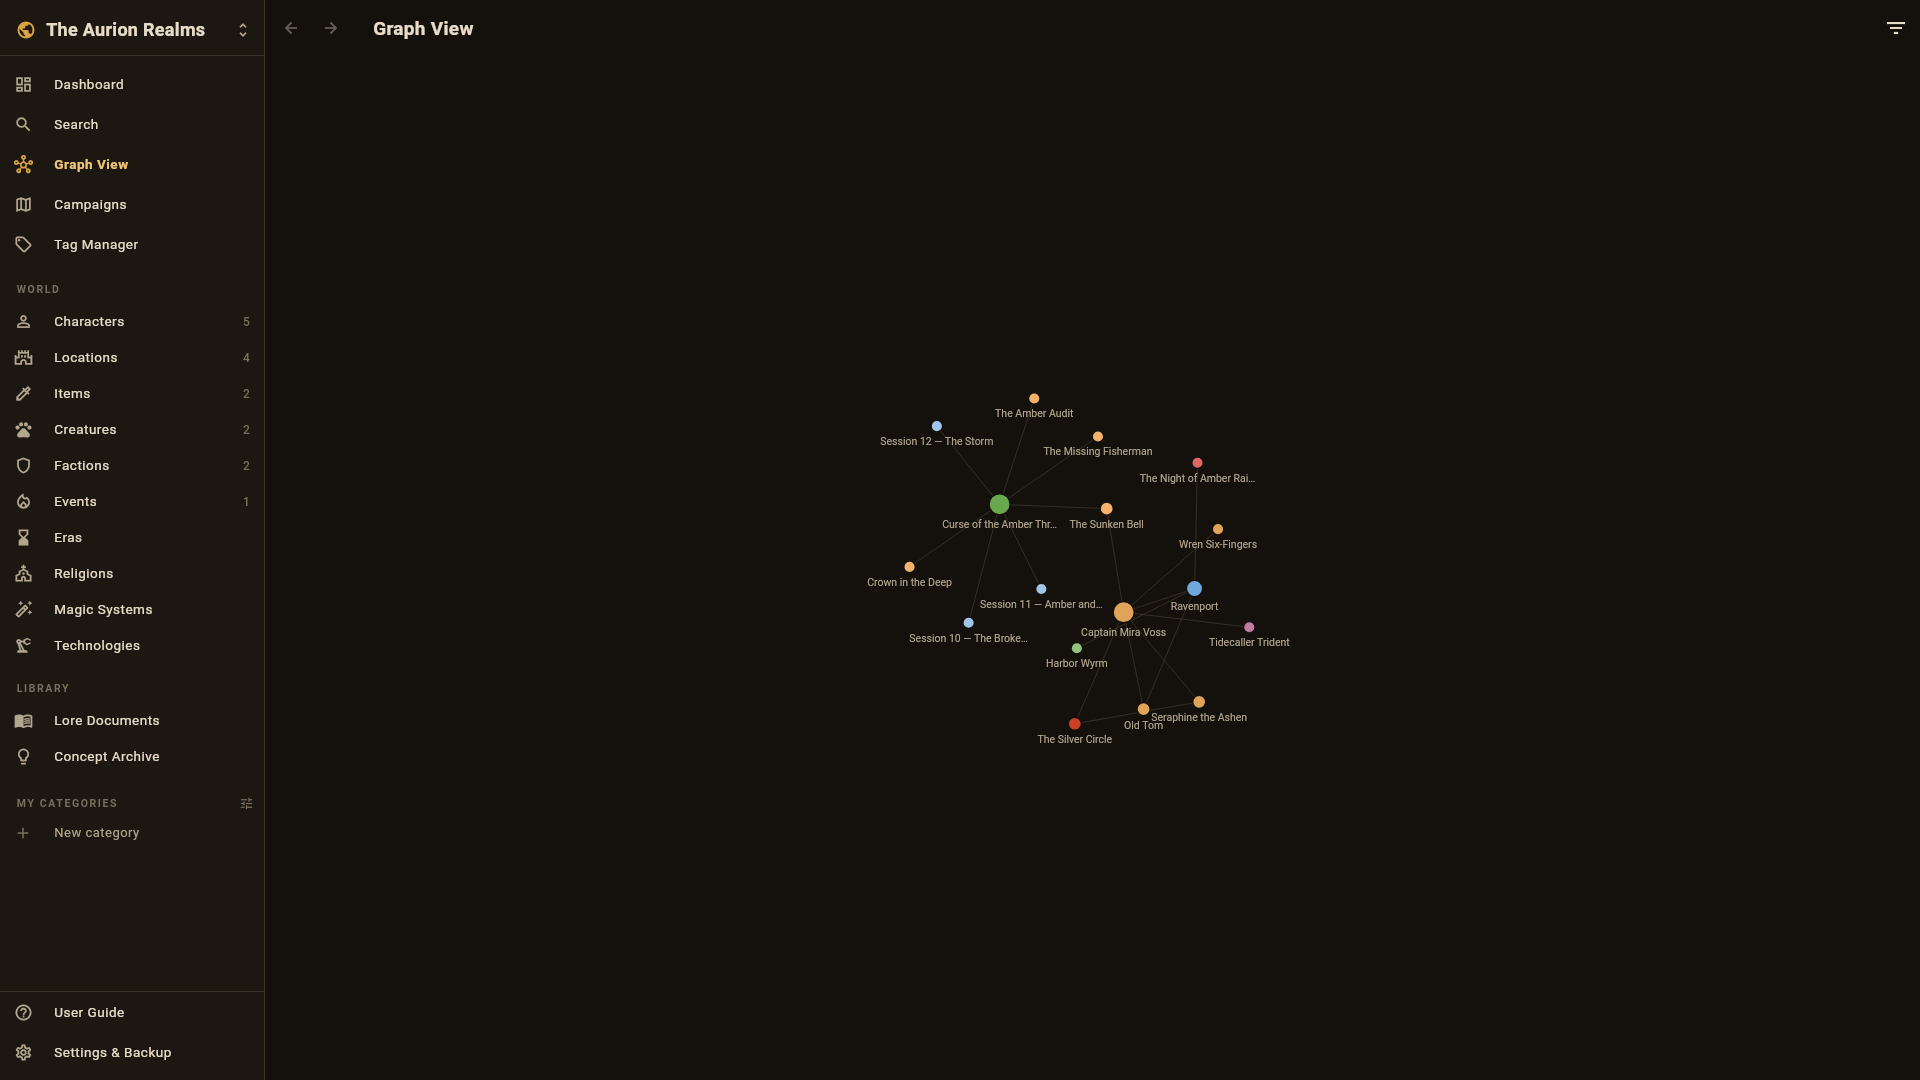
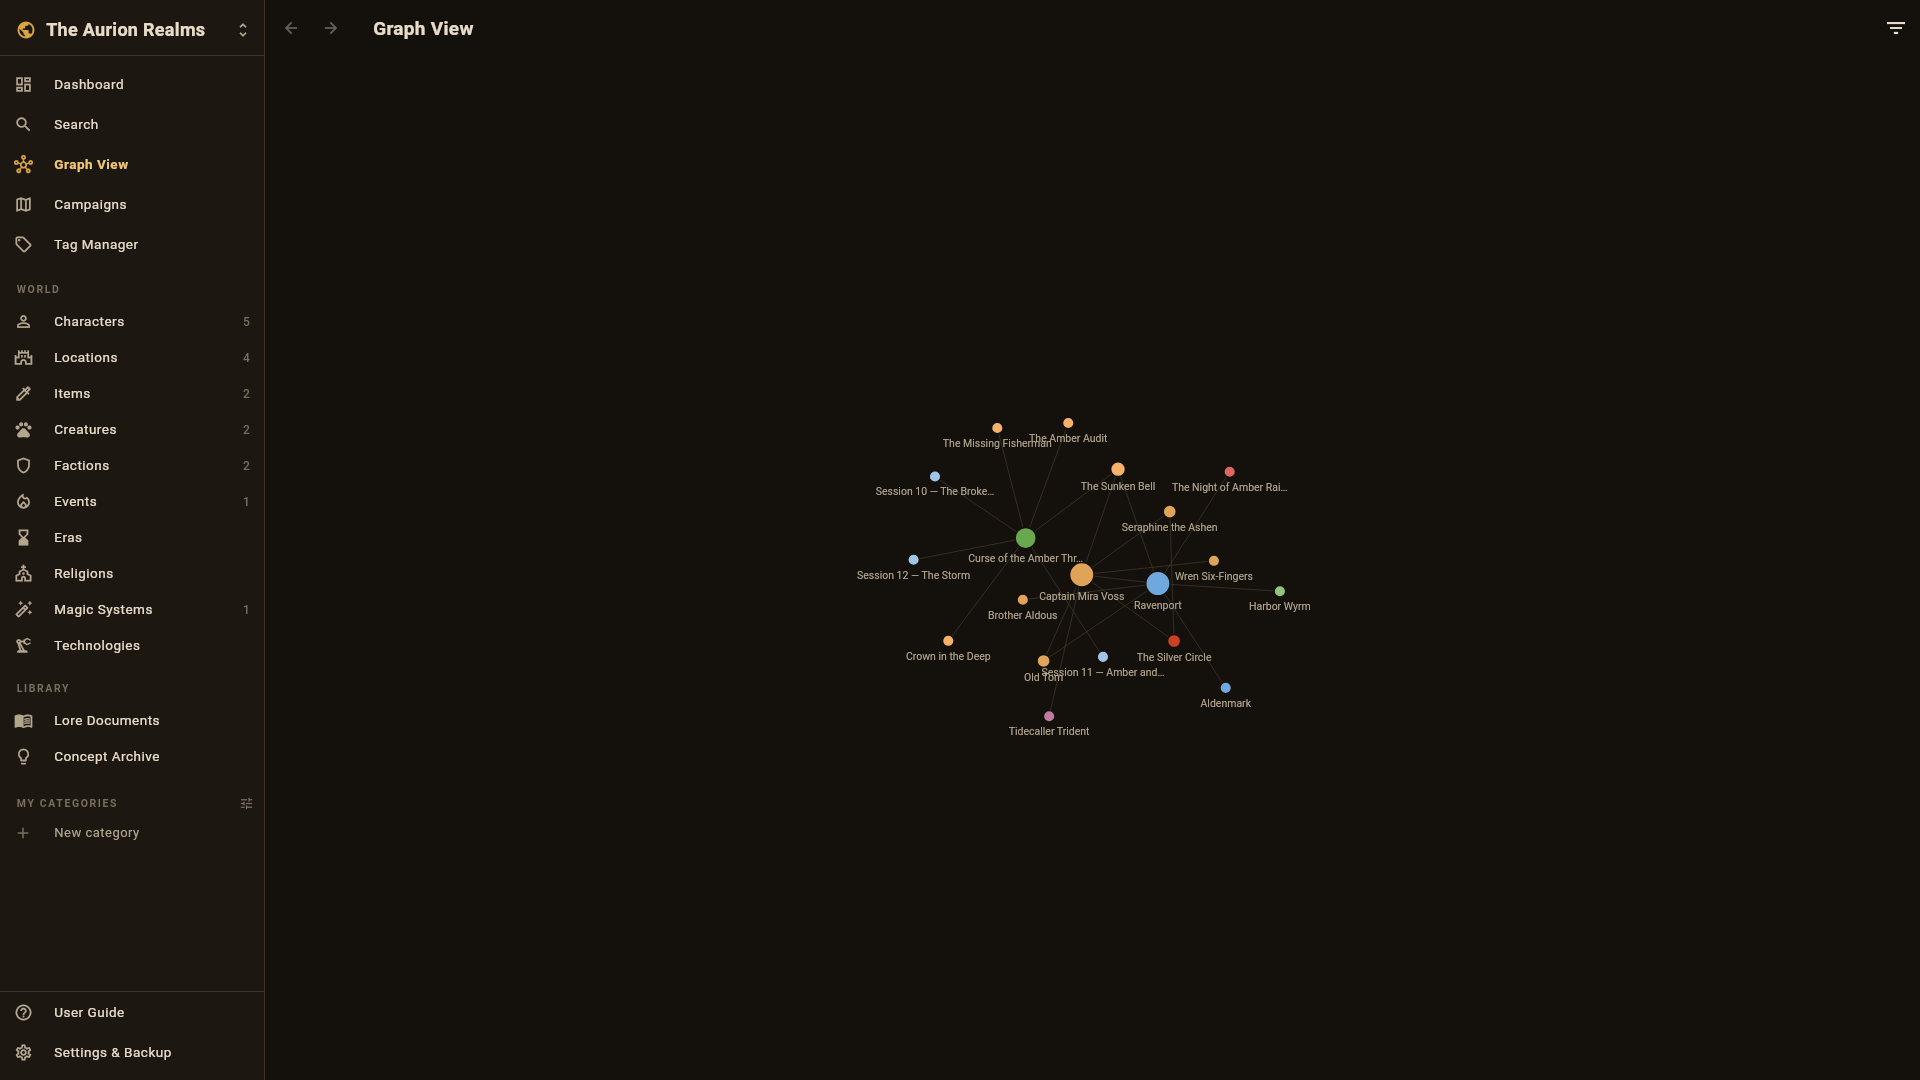
Store & guide screenshots: richer demo showcasing linking and stat cards
* The Ravenport lore document now contains real @-mention link chips
  (character, tavern, priest) instead of plain bold text, the city has
  Within/Ruler references, and the relations panel shows backlinks.
* Harbor Wyrm carries a complete monster stat block; a new Tidebinding
  spell demonstrates the full spell card.
* Two new store captures: 09_spell_card and 10_monster_statblock (ten
  frames total); all shots regenerated with the current navigation
  chrome. Brandbook screenshot section updated accordingly.

diff --git a/test/store_screenshots_test.dart b/test/store_screenshots_test.dart
@@ -181,6 +181,11 @@ Future<_Demo> _seedRichWorld() async {
   }
 
   // ------------------------------------------------- fantasy world content
+  final aldenmark = await create(world.id, EntityKind.location, 'Aldenmark',
+      'Old kingdom of amber and oaths', attributes: {
+    'locationType': 'Country',
+    'government': 'Elective monarchy',
+  });
   final ravenport = await create(world.id, EntityKind.location, 'Ravenport',
       'A grim harbor city under perpetual drizzle',
       cover: true,
@@ -190,6 +195,8 @@ Future<_Demo> _seedRichWorld() async {
         'locationType': 'City',
         'population': '12,400',
         'government': 'Harbor Council',
+        'climate': 'Cold coastal, fog nine months a year',
+        'parentLocation': entityRefValue(aldenmark.id),
       });
   await create(world.id, EntityKind.location, 'The Sunken Bell',
       'Dockside tavern where every rumor is half true',
@@ -199,12 +206,6 @@ Future<_Demo> _seedRichWorld() async {
   await create(world.id, EntityKind.location, 'Gloomwood',
       'The forest that swallows lantern light',
       cover: true, attributes: {'locationType': 'Region'});
-  await create(world.id, EntityKind.location, 'Aldenmark',
-      'Old kingdom of amber and oaths', attributes: {
-    'locationType': 'Country',
-    'government': 'Elective monarchy',
-  });
-
   final circle = await create(world.id, EntityKind.faction,
       'The Silver Circle', 'Secretive order of tide-mages',
       attributes: {'factionType': 'Order'});
@@ -296,6 +297,28 @@ Future<_Demo> _seedRichWorld() async {
     'challenge': '7',
     'size': 'Huge',
     'habitat': [entityRefValue(ravenport.id)],
+    // Full stat block for the monster-card screenshot.
+    'ac': 17,
+    'hp': '142 (15d12 + 45)',
+    'speed': '30 ft., swim 60 ft.',
+    'strength': 21,
+    'dexterity': 12,
+    'constitution': 17,
+    'intelligence': 8,
+    'wisdom': 13,
+    'charisma': 10,
+    'savingThrows': 'CON +6, WIS +4',
+    'skills': 'Perception +4, Stealth +4',
+    'resistances': 'cold; bludgeoning from nonmagical attacks',
+    'immunities': 'poison',
+    'senses': 'darkvision 120 ft., passive Perception 14',
+    'languages': 'understands Draconic, cannot speak',
+    'traits': 'Amphibious. The wyrm can breathe air and water.\n'
+        'Fog Shroud. While in fog, attack rolls against it have '
+        'disadvantage.',
+    'actions': 'Multiattack. Bite and tail.\n'
+        'Bite. +8 to hit, 2d10+5 piercing plus 1d8 cold.\n'
+        'Tail. +8 to hit, reach 15 ft., 2d8+5 bludgeoning.',
   });
   await create(world.id, EntityKind.creature, 'Fog Hounds',
       'They hunt by the sound of your heartbeat', attributes: {
@@ -308,6 +331,27 @@ Future<_Demo> _seedRichWorld() async {
       'When the sky wept the old kingdom back', attributes: {
     'date': '3rd Age, Year 409',
     'locations': [entityRefValue(ravenport.id)],
+  });
+
+  // The city's ruler ref creates a visible relation + backlink pair.
+  await entities.setAttribute(
+      ravenport.id, 'ruler', entityRefValue(mira.id));
+
+  // A full spell card for the stat-first page screenshot.
+  await create(world.id, EntityKind.magicSystem, 'Tidebinding',
+      'Chains of seawater hold what the deep has claimed', attributes: {
+    'level': '3rd Level',
+    'school': 'Conjuration',
+    'castingTime': '1 action',
+    'range': '60 ft.',
+    'components': 'V, S, M (a link of rusted chain)',
+    'duration': 'Concentration, up to 1 minute',
+    'ritual': 'No',
+    'saveAttack': 'STR save, restrained on failure',
+    'damageEffect': '3d8 cold on entering the chains',
+    'classes': ['Wizard', 'Sorcerer'],
+    'higherLevels': 'One extra target per slot level above 3rd.',
+    'source': 'The Silver Circle tide-lore',
   });
 
   final campaign = await create(world.id, EntityKind.campaign,
@@ -346,14 +390,22 @@ Future<_Demo> _seedRichWorld() async {
     });
   }
 
-  // A meaty lore document for the entry screenshot.
+  // A meaty lore document for the entry screenshot, with real @-mention
+  // links to entries (they render as chips and create backlinks).
+  Map<String, Object> mention(Entity e) => {
+        'insert': {
+          'entityLink': jsonEncode({'id': e.id, 'label': e.name}),
+        },
+      };
+  final tavern = demo.byName['The Sunken Bell']!;
+  final aldous = demo.byName['Brother Aldous']!;
   final delta = [
     {'insert': 'Ravenport\n', 'attributes': {'header': 2}},
     {
       'insert': 'A grim harbor city where the fog never fully lifts. '
           'The docks belong to '
     },
-    {'insert': 'Captain Mira Voss', 'attributes': {'bold': true}},
+    mention(mira),
     {
       'insert': ', the market belongs to the gulls, and the deep water '
           'belongs to something older.\n'
@@ -363,9 +415,12 @@ Future<_Demo> _seedRichWorld() async {
         'attributes': {'list': 'bullet'}},
     {'insert': 'Amber market — relics of the old kingdom\n',
         'attributes': {'list': 'bullet'}},
-    {'insert': 'The Sunken Bell — where rumors surface first\n',
+    mention(tavern),
+    {'insert': ' — where rumors surface first\n',
         'attributes': {'list': 'bullet'}},
-    {'insert': 'Chapel row — Brother Aldous rings for the drowned\n',
+    {'insert': 'Chapel row — '},
+    mention(aldous),
+    {'insert': ' rings for the drowned\n',
         'attributes': {'list': 'bullet'}},
     {
       'insert': 'Nothing leaves this harbor that the tide does not '
@@ -558,5 +613,15 @@ void main() {
     await run(tester, '08_light_theme',
         (d) => Routes.entity(d.worldId, d.byName['Ravenport']!.id),
         themeMode: ThemeMode.light);
+  });
+
+  testWidgets('09 spell card', skip: !_enabled, (tester) async {
+    await run(tester, '09_spell_card',
+        (d) => Routes.entity(d.worldId, d.byName['Tidebinding']!.id));
+  });
+
+  testWidgets('10 monster stat block', skip: !_enabled, (tester) async {
+    await run(tester, '10_monster_statblock',
+        (d) => Routes.entity(d.worldId, d.byName['Harbor Wyrm']!.id));
   });
 }

diff --git a/steam/store_assets/brandbook.html b/steam/store_assets/brandbook.html
@@ -190,9 +190,10 @@ Steam. Пересоздать после правок дизайна: <b>python3
     <p>Аватар сообщества и значок в чатах.</p>
   </div>
 </div>
-<div class="note">Скриншоты (минимум 5 из 8): <b>steam/screenshots/</b>,
-1920×1080, интерфейс английский. Порядок в магазине: галерея персонажей →
-кампания → граф → киберпанк → страница записи.</div>
+<div class="note">Скриншоты (минимум 5 из 10): <b>steam/screenshots/</b>, 1920×1080,
+интерфейс английский. Порядок в магазине: галерея персонажей → карточка
+заклинания → статблок монстра → кампания → граф → киберпанк → страница
+записи с живыми ссылками.</div>
 
 <h2>05 · Атрибуты страницы: что куда писать</h2>
 <table>

diff --git a/test/help_screenshots_test.dart b/test/help_screenshots_test.dart
@@ -217,7 +217,12 @@ Future<_Demo> _seedDemoWorld() async {
       'insert': 'A grim harbor city where the fog never fully lifts. '
           'The docks belong to '
     },
-    {'insert': 'Captain Mira Voss', 'attributes': {'bold': true}},
+    // A real @-mention: renders as a link chip and creates a backlink.
+    {
+      'insert': {
+        'entityLink': jsonEncode({'id': mira.id, 'label': mira.name}),
+      },
+    },
     {
       'insert': ', the market belongs to the gulls, and the deep water '
           'belongs to something older.\n'
